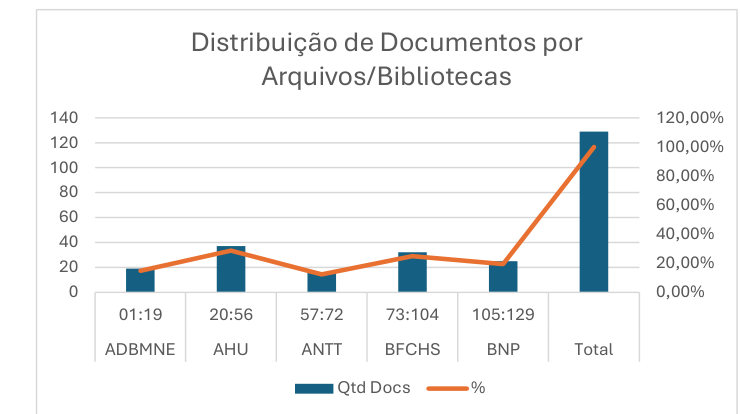
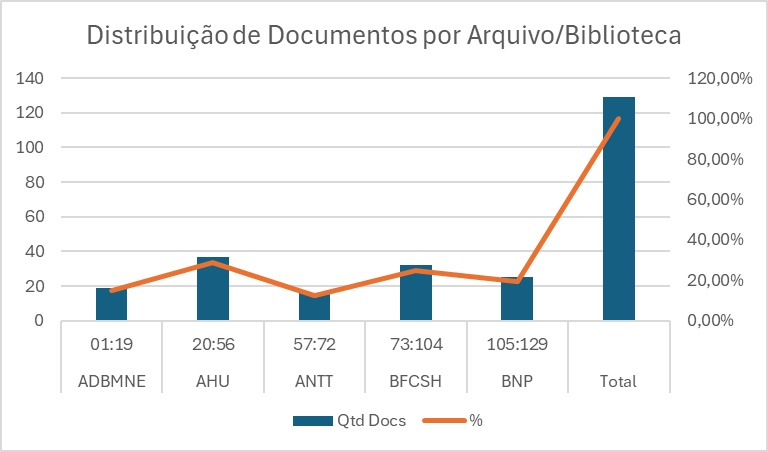
Correct BFCSH references and mobile navigation
Update the archive acronym and institution name throughout catalog data and page translations, refresh the chart, and improve responsive navigation and legend spacing.

diff --git a/js/traducao.js b/js/traducao.js
@@ -80,7 +80,7 @@ const TRADUCOES = {
         'This thematic digital repository is entitled “Digital Humanities in the Atlantic World: African and Afro-Brazilian Religions and Religious Practices” and was organized by historian Prof. Dr. Erivaldo Sales Nunes, affiliated with the Federal Institute of Education, Science and Technology of Bahia (IFBA), Salvador campus. It brings together primary and secondary sources on the history of religions and religious practices located across the Atlantic world.',
         'We are a digital repository resulting from the postdoctoral research project entitled “Digital Cartography of Historical Sources in the Atlantic World: Afro-Brazilian Religions and Religious Practices,” developed at the Graduate Program in History (PPGHIS), at the School of Philosophy and Human Sciences (FAFICH) of the Federal University of Minas Gerais (UFMG). The project was supervised with the collaboration of Prof. Dr. Vanicléia Silva Santos (University of Pennsylvania/UFMG).',
         'The model for creating the digital repository and its database was structured and stored at an address on the World Wide Web. This technological contribution came from the collaboration of Prof. Dr. Luiz Machado and research fellow Gabriel Borba, members of the Digital Games program at the Federal Institute of Education, Science and Technology of Bahia (IFBA), Lauro de Freitas campus.',
-        'It is a mapping of physical documents, mostly dating from the twentieth century, which were digitized as a result of research carried out during a doctoral research period at Universidade Nova de Lisboa in 2015. On that occasion, the following historical archives and libraries were visited: the Diplomatic Archives and Library of the Ministry of Foreign Affairs (ADBMNE), the Overseas Historical Archive (AHU), the National Archive of Torre do Tombo (ANTT), the Library of the School of Social Sciences and Humanities of Universidade Nova de Lisboa (BFCHS/UNL), and the National Library of Portugal (BNP).',
+        'It is a mapping of physical documents, mostly dating from the twentieth century, which were digitized as a result of research carried out during a doctoral research period at Universidade Nova de Lisboa in 2015. On that occasion, the following historical archives and libraries were visited: the Diplomatic Archives and Library of the Ministry of Foreign Affairs (ADBMNE), the Overseas Historical Archive (AHU), the National Archive of Torre do Tombo (ANTT), the Library of the School of Social Sciences and Humanities of Universidade Nova de Lisboa (BFCSH/UNL), and the National Library of Portugal (BNP).',
         'The historical sources consulted here represent the first stage in the diffusion of multi-referenced knowledge (museum, geographic, historical, anthropological, and digital), making it public through storage on a responsive website.'
       ]
     },
@@ -107,7 +107,7 @@ const TRADUCOES = {
       caption: '<strong>Connected map of Africa:</strong> The terracotta-colored continent, crossed by a network of bright nodes and lines, represents territory mapped digitally; each node is a story, a data point, or a community.',
       paragraphs: [
         'In this mapping, it was possible to systematize and catalog <strong>129 historical sources</strong>, distributed across three public archives and two libraries, one public and one private. Of these, 30 refer to primary sources (cartography, iconography, manuscripts, civil and political proceedings, and reports), while 99 are secondary sources (catalogs, bibliographies, and printed materials — newspapers and bulletins).',
-        'Public archives account for 72 sources, equivalent to 55.81% of the sources collected. The libraries account for 57 sources (44.19%). Among the institutions surveyed, according to Graph and Table 1, the AHU holds 28.68% (37), followed by the BFCHS at 24.81% (32) and the BNP at 19.38% (25). The ADBMNE accounts for 14.73% (19), and the ANTT for 12.40% (16).',
+        'Public archives account for 72 sources, equivalent to 55.81% of the sources collected. The libraries account for 57 sources (44.19%). Among the institutions surveyed, according to Graph and Table 1, the AHU holds 28.68% (37), followed by the BFCSH at 24.81% (32) and the BNP at 19.38% (25). The ADBMNE accounts for 14.73% (19), and the ANTT for 12.40% (16).',
         'Among the source types systematized according to Table 2 and Graph 2, bibliographic sources stand out at 48.06% (62), followed by printed sources at 17.05% (22) and catalogs at 11.63% (15). Iconography represents 10.08% (13), while manuscripts and civil/political proceedings each represent 4.65% (6). Reports and cartography complete the collection at 3.1% (4) and 0.78% (1), respectively.',
         'Of the 129 historical sources, only seven digital objects (documents) are unavailable on the website. According to the catalog numbering, these are: <strong>ADBMNE</strong> — items 8 and 12; <strong>AHU</strong> — item 56; <strong>ANTT</strong> — items 66, 67, and 68; <strong>BNP</strong> — item 123.',
         'The sources collected made it necessary to catalog and organize access to the documents in a database, initially structured in Microsoft Excel spreadsheets. Each record was cataloged using the following data categories, or metadata:'
@@ -118,7 +118,7 @@ const TRADUCOES = {
       ],
       tableHeaders: [
         'Archives', 'Numbering', 'Qtd Docs', '%',
-        'Source Types', 'ADBMNE', 'AHU', 'ANTT', 'BFCHS', 'BNP', 'Total', '(%)'
+        'Source Types', 'ADBMNE', 'AHU', 'ANTT', 'BFCSH', 'BNP', 'Total', '(%)'
       ],
       tableRows: [
         'C= Cartography', 'CAT = Catalog', 'B= Bibliography', 'I= Iconography',
@@ -150,10 +150,10 @@ const TRADUCOES = {
         'Graph 2– Archives/Libraries — Quantity and (%) of Documents Mapped by Types'
       ],
       sourceLabels: [
-        'Sources: ADBMNE, AHU, ANTT, BFCHS, BNP, 2015.',
-        'Sources: ADBMNE, AHU, ANTT, BFCHS, BNP, 2015.',
-        'Sources: ADBMNE, AHU, ANTT, BFCHS, BNP, 2015.',
-        'Sources: ADBMNE, AHU, ANTT, BFCHS, BNP, 2015.'
+        'Sources: ADBMNE, AHU, ANTT, BFCSH, BNP, 2015.',
+        'Sources: ADBMNE, AHU, ANTT, BFCSH, BNP, 2015.',
+        'Sources: ADBMNE, AHU, ANTT, BFCSH, BNP, 2015.',
+        'Sources: ADBMNE, AHU, ANTT, BFCSH, BNP, 2015.'
       ]
     },
     'direitos-autorais': {
@@ -227,7 +227,7 @@ const TRADUCOES = {
         'Este repositorio digital temático se titula «Humanidades Digitales en el Mundo Atlántico: Religiones y religiosidades africanas y afrobrasileñas» y fue organizado por el historiador Prof. Dr. Erivaldo Sales Nunes, vinculado al Instituto Federal de Educación, Ciencia y Tecnología de Bahía (IFBA), campus Salvador. Reúne fuentes primarias y secundarias sobre la historia de las religiones y religiosidades localizadas territorialmente en el mundo atlántico.',
         'Somos un repositorio digital fruto del proyecto de investigación posdoctoral titulado «Cartografía Digital de Fuentes Históricas en el Mundo Atlántico: Religiones y religiosidades afrobrasileñas», desarrollado en el Programa de Posgrado en Historia (PPGHIS) de la Facultad de Filosofía y Ciencias Humanas (FAFICH) de la Universidad Federal de Minas Gerais (UFMG). La supervisión del proyecto contó con la colaboración de la Profa. Dra. Vanicléia Silva Santos (University of Pennsylvania/UFMG).',
         'El modelo de creación del repositorio digital con base de datos se estructuró y almacenó en una dirección de la red de alcance mundial. Esa contribución tecnológica se realizó con la colaboración del Prof. Dr. Luiz Machado y del becario-investigador Gabriel Borba, integrantes del curso de Juegos Digitales del Instituto Federal de Educación, Ciencia y Tecnología de Bahía (IFBA), campus Lauro de Freitas.',
-        'Se trata de un mapeo de documentos físicos, en su mayoría del siglo XX, que fueron digitalizados como resultado de investigaciones realizadas en una estancia doctoral en la Universidade Nova de Lisboa en 2015. En aquella ocasión se recorrieron los siguientes archivos históricos y bibliotecas: el Archivo Diplomático y Biblioteca del Ministerio de Asuntos Exteriores (ADBMNE), el Archivo Histórico Ultramarino (AHU), el Archivo Nacional de Torre do Tombo (ANTT), la Biblioteca de la Facultad de Ciencias Sociales y Humanas de la Universidade Nova de Lisboa (BFCHS/UNL) y la Biblioteca Nacional de Portugal (BNP).',
+        'Se trata de un mapeo de documentos físicos, en su mayoría del siglo XX, que fueron digitalizados como resultado de investigaciones realizadas en una estancia doctoral en la Universidade Nova de Lisboa en 2015. En aquella ocasión se recorrieron los siguientes archivos históricos y bibliotecas: el Archivo Diplomático y Biblioteca del Ministerio de Asuntos Exteriores (ADBMNE), el Archivo Histórico Ultramarino (AHU), el Archivo Nacional de Torre do Tombo (ANTT), la Biblioteca de la Facultad de Ciencias Sociales y Humanas de la Universidade Nova de Lisboa (BFCSH/UNL) y la Biblioteca Nacional de Portugal (BNP).',
         'Las fuentes históricas aquí consultadas representan la primera etapa de difusión de un conocimiento multirreferencial (museístico, geográfico, histórico, antropológico y digital), que se hace público mediante su almacenamiento en un sitio web adaptable.'
       ]
     },
@@ -254,7 +254,7 @@ const TRADUCOES = {
       caption: '<strong>Mapa conectado de África:</strong> El continente en tonos terracota, atravesado por una red de nodos y líneas luminosas, representa un territorio cartografiado digitalmente; cada nodo es una historia, un dato o una comunidad.',
       paragraphs: [
         'En este mapeo fue posible sistematizar y catalogar <strong>129 fuentes históricas</strong>, distribuidas en tres archivos públicos y dos bibliotecas, una pública y otra privada. De ellas, 30 se refieren a fuentes primarias (cartografía, iconografía, manuscritos, procesos civiles y políticos e informes), y 99 son fuentes secundarias (catálogos, bibliografías e impresos —periódicos y boletines).',
-        'Los archivos públicos reúnen 72 fuentes, equivalentes al 55,81 % de las fuentes recopiladas. Las bibliotecas aportan 57 fuentes (44,19 %). Según el Gráfico y la Tabla 1, entre las instituciones investigadas el AHU concentra el 28,68 % (37), seguido por la BFCHS con el 24,81 % (32) y la BNP con el 19,38 % (25). El ADBMNE aporta el 14,73 % (19) y el ANTT el 12,40 % (16).',
+        'Los archivos públicos reúnen 72 fuentes, equivalentes al 55,81 % de las fuentes recopiladas. Las bibliotecas aportan 57 fuentes (44,19 %). Según el Gráfico y la Tabla 1, entre las instituciones investigadas el AHU concentra el 28,68 % (37), seguido por la BFCSH con el 24,81 % (32) y la BNP con el 19,38 % (25). El ADBMNE aporta el 14,73 % (19) y el ANTT el 12,40 % (16).',
         'Entre los tipos de fuentes sistematizados según la Tabla 2 y el Gráfico 2 destacan las fuentes bibliográficas, con el 48,06 % (62); los impresos, con el 17,05 % (22); y los catálogos, con el 11,63 % (15). La iconografía representa el 10,08 % (13), mientras que los manuscritos y los procesos políticos/civiles representan, cada uno, el 4,65 % (6). Los informes y la cartografía completan el conjunto con el 3,1 % (4) y el 0,78 % (1), respectivamente.',
         'De las 129 fuentes históricas, solo siete objetos digitales (documentos) no están disponibles en el sitio. Según la numeración del catálogo, son: <strong>ADBMNE</strong>: documentos 8 y 12; <strong>AHU</strong>: documento 56; <strong>ANTT</strong>: documentos 66, 67 y 68; <strong>BNP</strong>: documento 123.',
         'Las fuentes recopiladas hicieron necesario catalogar y organizar el acceso a los documentos mediante una base de datos, estructurada inicialmente en hojas de cálculo de Microsoft Excel. Cada registro se catalogó con las siguientes categorías de datos o metadatos:'
@@ -265,7 +265,7 @@ const TRADUCOES = {
       ],
       tableHeaders: [
         'Archivos', 'Numeración', 'Qtd Docs', '%',
-        'Tipo de fuentes', 'ADBMNE', 'AHU', 'ANTT', 'BFCHS', 'BNP', 'Total', '(%)'
+        'Tipo de fuentes', 'ADBMNE', 'AHU', 'ANTT', 'BFCSH', 'BNP', 'Total', '(%)'
       ],
       tableRows: [
         'C= Cartografía', 'CAT = Catálogo', 'B= Bibliografía', 'I= Iconografía',
@@ -297,10 +297,10 @@ const TRADUCOES = {
         'Gráfico 2– Archivos/Bibliotecas – Cantidad y (%) de Documentos Mapeados por Tipologías'
       ],
       sourceLabels: [
-        'Fuentes: ADBMNE, AHU, ANTT, BFCHS, BNP, 2015.',
-        'Fuentes: ADBMNE, AHU, ANTT, BFCHS, BNP, 2015.',
-        'Fuentes: ADBMNE, AHU, ANTT, BFCHS, BNP, 2015.',
-        'Fuentes: ADBMNE, AHU, ANTT, BFCHS, BNP, 2015.'
+        'Fuentes: ADBMNE, AHU, ANTT, BFCSH, BNP, 2015.',
+        'Fuentes: ADBMNE, AHU, ANTT, BFCSH, BNP, 2015.',
+        'Fuentes: ADBMNE, AHU, ANTT, BFCSH, BNP, 2015.',
+        'Fuentes: ADBMNE, AHU, ANTT, BFCSH, BNP, 2015.'
       ]
     },
     'direitos-autorais': {

diff --git a/paginas/sobre-cdfhma.html b/paginas/sobre-cdfhma.html
@@ -62,12 +62,12 @@
       </div>
       <div class="content-text">
     <p>No presente mapeamento foi possível sistematizar e catalogar <strong>129 (cento e vinte nove) fontes históricas</strong>, distribuídas em três arquivos públicos e duas bibliotecas, sendo uma biblioteca pública e outra pertencente à esfera privada. Deste total de fontes, 30 (trinta) refere-se a fontes primárias (cartografia, iconografias, manuscritos, processos civis políticos e relatórios) e 99 (noventa e nove) são fontes secundárias (catálogos, bibliografias e impressos - jornais e boletins).</p>
-    <p>Nos arquivos públicos chegamos a um quantitativo de 72 (setenta e duas) fontes, equivalente a 55,81% das fontes coletadas. Quanto às bibliotecas, foi possível catalogar 57 (cinquenta e sete) fontes, que correspondem a 44,19% das fontes totais sistematizadas. Entre as instituições pesquisadas de acordo com o Gráfico e Tabela 1, concentram-se documentos no AHU com 28,68% (37), seguido pela BFCHS com 24,81% (32) e a BNP com 19,38% (25). Adiciona-se os documentos mapeados no ADBMNE com 14,73% (19) e o ANTT com 12,40% (16).</p>
+    <p>Nos arquivos públicos chegamos a um quantitativo de 72 (setenta e duas) fontes, equivalente a 55,81% das fontes coletadas. Quanto às bibliotecas, foi possível catalogar 57 (cinquenta e sete) fontes, que correspondem a 44,19% das fontes totais sistematizadas. Entre as instituições pesquisadas de acordo com o Gráfico e Tabela 1, concentram-se documentos no AHU com 28,68% (37), seguido pela BFCSH com 24,81% (32) e a BNP com 19,38% (25). Adiciona-se os documentos mapeados no ADBMNE com 14,73% (19) e o ANTT com 12,40% (16).</p>
 
     <figure class="chart-figure">
       <img src="../assets/grafico-1.png" alt="Gráfico 1: Distribuição de Documentos por Arquivos/Bibliotecas">
       <figcaption>Gráfico 1 – Arquivos/Bibliotecas – Quantidade de Documentos Mapeados</figcaption>
-      <p class="chart-source">Fontes: ADBMNE, AHU, ANTT, BFCHS, BNP, 2015.</p>
+      <p class="chart-source">Fontes: ADBMNE, AHU, ANTT, BFCSH, BNP, 2015.</p>
     </figure>
 
     <table class="info-table">
@@ -79,21 +79,21 @@
         <tr><td>ADBMNE</td><td>01:19</td><td>19</td><td>14,73%</td></tr>
         <tr><td>AHU</td><td>20:56</td><td>37</td><td>28,68%</td></tr>
         <tr><td>ANTT</td><td>57:72</td><td>16</td><td>12,40%</td></tr>
-        <tr><td>BFCHS</td><td>73:104</td><td>32</td><td>24,81%</td></tr>
+        <tr><td>BFCSH</td><td>73:104</td><td>32</td><td>24,81%</td></tr>
         <tr><td>BNP</td><td>105:129</td><td>25</td><td>19,38%</td></tr>
       </tbody>
       <tfoot>
         <tr><td colspan="2">Total</td><td>129</td><td>100,00%</td></tr>
       </tfoot>
     </table>
-    <p class="table-source">Fontes: ADBMNE, AHU, ANTT, BFCHS, BNP, 2015.</p>
+    <p class="table-source">Fontes: ADBMNE, AHU, ANTT, BFCSH, BNP, 2015.</p>
 
     <p>Dentre os tipos de fontes consolidadas pela sistematização de acordo com a Tabela 2 e o Gráfico 2, destacam-se as fontes bibliográficas com 48,06% (62), seguida pelas fontes impressas com 17,05% (22) e os catálogos que representam 11,63% (15). A iconografia representa 10,08% (13) das fontes, enquanto, o manuscrito e o processo político/civil, representam cada um, 4,65% (6). Os relatórios e a cartografia completam a consolidação das fontes com 3,1% (4) e 0,78% (1) respectivamente.</p>
 
     <table class="info-table">
       <caption>Tabela 2: Consolidação das Fontes Históricas Sistematizadas</caption>
       <thead>
-        <tr><th>Tipo de Fontes</th><th>ADBMNE</th><th>AHU</th><th>ANTT</th><th>BFCHS</th><th>BNP</th><th>Total</th><th>(%)</th></tr>
+        <tr><th>Tipo de Fontes</th><th>ADBMNE</th><th>AHU</th><th>ANTT</th><th>BFCSH</th><th>BNP</th><th>Total</th><th>(%)</th></tr>
       </thead>
       <tbody>
         <tr><td>C= Cartografia</td><td>0</td><td>0</td><td>0</td><td>0</td><td>1</td><td>1</td><td>0,78</td></tr>
@@ -109,11 +109,11 @@
         <tr><td>Total de fontes</td><td>19</td><td>37</td><td>16</td><td>32</td><td>25</td><td>129</td><td>100</td></tr>
       </tfoot>
     </table>
-      <p class="table-source">Fontes: ADBMNE, AHU, ANTT, BFCHS, BNP, 2015.</p>
+      <p class="table-source">Fontes: ADBMNE, AHU, ANTT, BFCSH, BNP, 2015.</p>
       <figure class="chart-figure">
         <img src="../assets/grafico-2.png" alt="Gráfico 2: Quantidade e porcentagem das fontes sistematizadas por tipologias">
         <figcaption>Gráfico 2– Arquivos/Bibliotecas – Quantidade e (%) de Documentos Mapeados por Tipologias</figcaption>
-        <p class="chart-source">Fontes: ADBMNE, AHU, ANTT, BFCHS, BNP, 2015.</p>
+        <p class="chart-source">Fontes: ADBMNE, AHU, ANTT, BFCSH, BNP, 2015.</p>
       </figure>
 
     <p>Vale ressaltar que dentre as 129 (cento e vinte e nove) fontes históricas, somente 7 (sete) objetos digitais (documentos) não estão disponíveis para acesso no site. A partir da numeração adotada em nosso catálogo, os documentos que não podem ser acessados são os seguintes: <strong>ADBMNE</strong> – Docs. 8 e 12; <strong>AHU</strong> – Doc. 56; <strong>ANTT</strong> – Docs. 66, 67 e 68; <strong>BNP</strong> – Doc. 123.</p>

diff --git a/paginas/quem-somos.html b/paginas/quem-somos.html
@@ -64,7 +64,7 @@
         <p>Esse repositório digital temático intitula-se “Humanidades Digitais no Mundo Atlântico: Religiões e Religiosidades Africanas e Afro-brasileiras” e foi organizado pelo Prof. Dr. Erivaldo Sales Nunes, historiador, vinculado ao Instituto Federal de Educação, Ciência e Tecnologia da Bahia-IFBA, campus Salvador. Contempla fontes primárias e secundárias sobre a história das religiões e das religiosidades, localizadas territorialmente no mundo atlântico.</p>
         <p>Somos um repositório digital fruto de projeto de pesquisa pós-doutoral denominado “Cartografia Digital de Fontes Históricas no Mundo Atlântico: Religiões e Religiosidades Afro-brasileiras”, desenvolvido no Programa de Pós-graduação em História (PPGHIS), na Faculdade de Filosofia e Ciências Humanas (FAFICH) da Universidade Federal de Minas Gerais (UFMG). A supervisão do projeto contou com a colaboração da Profa. Dra. Vanicléia Silva Santos-University of Pennsylvania/UFMG.</p>
         <p>O modelo da criação do repositório digital contendo banco de dados foi estruturado e armazenado em endereço da rede alcance mundial. Essa contribuição tecnológica se deu, a partir da colaboração do Prof. Dr. Luiz Machado e o do bolsista/pesquisador Gabriel Borba, integrantes do curso Jogos Digitais do Instituto Federal de Educação, Ciência e Tecnologia da Bahia-IFBA, campus Lauro de Freitas.</p>
-        <p>Trata-se de mapeamento de documentos físicos datados em sua maioria do século XX e que foram digitalizados em decorrência de pesquisas realizadas em estágio doutoral na Universidade Nova de Lisboa, no ano de 2015. Na ocasião, percorreu-se arquivos históricos e bibliotecas, a saber: o Arquivo Diplomático e Biblioteca do Ministério dos Negócios Estrangeiros (ADBMNE), o Arquivo Histórico Ultramarino (AHU), o Arquivo Nacional Torre do Tombo (ANTT), a Biblioteca da Faculdade de Ciências Humanas e Sociais da Universidade Nova de Lisboa (BFCHS/UNL) e a Biblioteca Nacional de Portugal (BNP).</p>
+        <p>Trata-se de mapeamento de documentos físicos datados em sua maioria do século XX e que foram digitalizados em decorrência de pesquisas realizadas em estágio doutoral na Universidade Nova de Lisboa, no ano de 2015. Na ocasião, percorreu-se arquivos históricos e bibliotecas, a saber: o Arquivo Diplomático e Biblioteca do Ministério dos Negócios Estrangeiros (ADBMNE), o Arquivo Histórico Ultramarino (AHU), o Arquivo Nacional Torre do Tombo (ANTT), a Biblioteca da Faculdade de Ciências Sociais e Humanas da Universidade Nova de Lisboa (BFCSH/UNL) e a Biblioteca Nacional de Portugal (BNP).</p>
         <p>As fontes históricas aqui consultadas representam a primeira etapa de difusão de um conhecimento multirreferenciado (museal-geográfico-histórico-antropológico-digital), publicizando-o através de armazenamento em website responsivo.</p>
       </div>
     </div>

diff --git a/js/fichario.js b/js/fichario.js
@@ -18,7 +18,7 @@ const ARQUIVO_LEGENDA = {
   "ADBMNE": "Arquivo Diplomático e Biblioteca do Ministério dos Negócios Estrangeiros",
   "AHU": "Arquivo Histórico Ultramarino",
   "ANTT": "Arquivo Nacional Torre do Tombo",
-  "BFCHS": "Biblioteca da Faculdade de Ciências Humanas e Sociais da Universidade Nova de Lisboa",
+  "BFCSH": "Biblioteca da Faculdade de Ciências Sociais e Humanas da Universidade Nova de Lisboa",
   "BNP": "Biblioteca Nacional de Portugal",
 };
 
@@ -71,7 +71,7 @@ const textosCatalogo = {
       ADBMNE: 'Diplomatic Archives and Library of the Ministry of Foreign Affairs',
       AHU: 'Overseas Historical Archive',
       ANTT: 'National Archive of Torre do Tombo',
-      BFCHS: 'Library of the School of Social Sciences and Humanities, Universidade Nova de Lisboa',
+      BFCSH: 'Library of the School of Social Sciences and Humanities, Universidade Nova de Lisboa',
       BNP: 'National Library of Portugal'
     },
     anos: { 'Sem data': 'Undated', 'Séculos XVI ao XX': '16th to 20th centuries', 'Séculos XVII ao XX': '17th to 20th centuries' },
@@ -110,7 +110,7 @@ const textosCatalogo = {
       ADBMNE: 'Archivo Diplomático y Biblioteca del Ministerio de Asuntos Exteriores',
       AHU: 'Archivo Histórico Ultramarino',
       ANTT: 'Archivo Nacional de Torre do Tombo',
-      BFCHS: 'Biblioteca de la Facultad de Ciencias Sociales y Humanas de la Universidade Nova de Lisboa',
+      BFCSH: 'Biblioteca de la Facultad de Ciencias Sociales y Humanas de la Universidade Nova de Lisboa',
       BNP: 'Biblioteca Nacional de Portugal'
     },
     anos: { 'Sem data': 'Sin fecha', 'Séculos XVI ao XX': 'Siglos XVI al XX', 'Séculos XVII ao XX': 'Siglos XVII al XX' },

diff --git a/css/site.css b/css/site.css
@@ -260,15 +260,18 @@
     justify-content:center;
     gap:6px;
   }
-  /* Mantém "Parceiros" e "Direitos Autorais" juntos: no celular o grupo é
-     transparente; em telas maiores os dois quebram de linha como um bloco só. */
-  .site-nav-par{ display:contents; }
+  /* Mantém "Parceiros" e "Direitos Autorais" juntos: no celular os dois
+     quebram e ficam centralizados; em telas maiores ficam lado a lado. */
+  .site-nav-par{
+    display:flex;
+    flex-wrap:wrap;
+    justify-content:center;
+    gap:6px;
+    max-width:100%;
+  }
+  .site-nav a{ display:inline-block; }
   @media (min-width:1024px){
-    .site-nav-par{
-      display:flex;
-      flex-wrap:nowrap;
-      gap:6px;
-    }
+    .site-nav-par{ flex-wrap:nowrap; }
     .site-nav-par a{ white-space:nowrap; }
   }
   .site-nav-row--fichario{
@@ -898,6 +901,8 @@
     flex-shrink:0;
     white-space:nowrap;
   }
+  /* Respiro extra entre a sigla e o seu significado */
+  .legenda-item > span:last-child{ margin-left:12px; }
   /* Alinha as descrições pela sigla mais larga de cada grupo (ex.: ADBMNE) */
   @supports (grid-template-columns: subgrid){
     .legenda-grupo{

diff --git a/paginas/direitos-autorais.html b/paginas/direitos-autorais.html
@@ -69,7 +69,7 @@
     <ul>
       <li>Obras e documentos em sua integralidade têm data de registros anteriores ao ano de 1956;</li>
       <li>Obras e documentos posteriores ao ano de 1956, estão disponíveis parcialmente, a exemplo de sumários, prólogos, capítulos e referências bibliográficas;</li>
-      <li>Todas as obras e documentos integram acervos de arquivos históricos públicos, com exceção ao acervo da Biblioteca da Faculdade de Ciências Humanas e Sociais da Universidade Nova de Lisboa, instituição privada.</li>
+      <li>Todas as obras e documentos integram acervos de arquivos históricos públicos, com exceção ao acervo da Biblioteca da Faculdade de Ciências Sociais e Humanas da Universidade Nova de Lisboa, instituição privada.</li>
     </ul>
       </div>
     </div>

diff --git a/paginas/parceiros.html b/paginas/parceiros.html
@@ -90,7 +90,7 @@
         <h4>Faculdades e Instituto de Educação</h4>
         <ul>
           <li>Faculdade de Filosofia e Ciências Humanas (FFCH/UFBA)</li>
-          <li>Faculdade de Ciências Sociais de Humanas (FCSH/UNL)</li>
+          <li>Faculdade de Ciências Sociais e Humanas (FCSH/UNL)</li>
           <li>Faculdade de Filosofia e Ciências Humanas (FAFICH/UFMG)</li>
           <li>Instituto Federal de Educação, Ciência e Tecnologia da Bahia (IFBA)</li>
         </ul>
